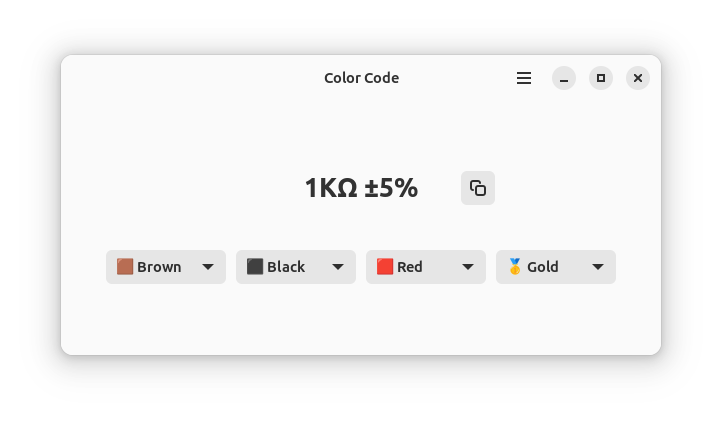
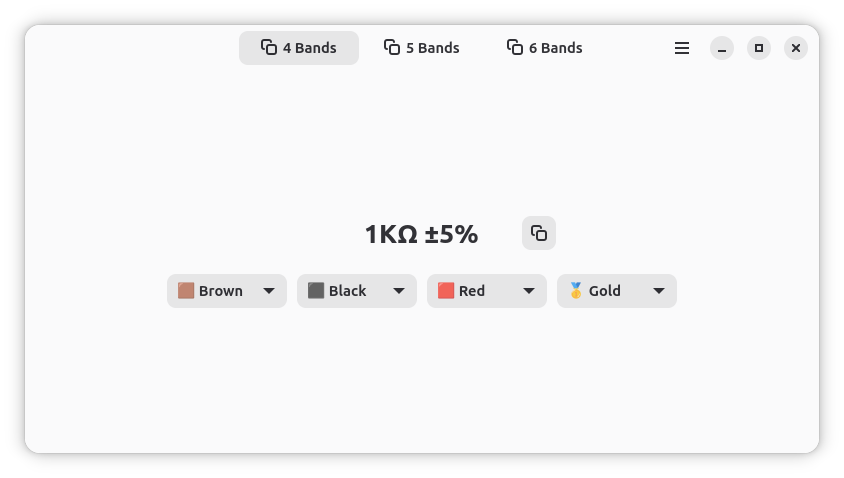
readme remove memo/456

diff --git a/README.md b/README.md
@@ -1,15 +1,11 @@
 # ![image](https://raw.githubusercontent.com/oyajun/color-code/216d995feeff738eeae765b12027cfe9cf87cbaf/data/icons/hicolor/scalable/apps/com.oyajun.ColorCode.svg) Color Code
 
 "Color Code" is the app which converts to the resistance value from the color code.  
-Written with GTK 4 (Python) and libadwaita.
+Supports 4, 5 and 6 bands.  
+Written with GTK 4 (Python), Libadwaita and Blueprint.
 ![image](https://raw.githubusercontent.com/oyajun/color-code/main/data/screenshots/screenshot1.png)
 
 <a href='https://flathub.org/apps/com.oyajun.ColorCode'>
     <img width='240' alt='Download on Flathub' src='https://flathub.org/api/badge?locale=en'/>
 </a>
 
-# Memo
-```bash
-xgettext --files-from=po/POTFILES --output=po/POTFILE.pot --from-code=UTF-8 --add-comments --keyword=_ --keyword=C_:1c,2
-msginit -i po/POTFILE.pot -o po/ja.po -l ja.utf8
-```
